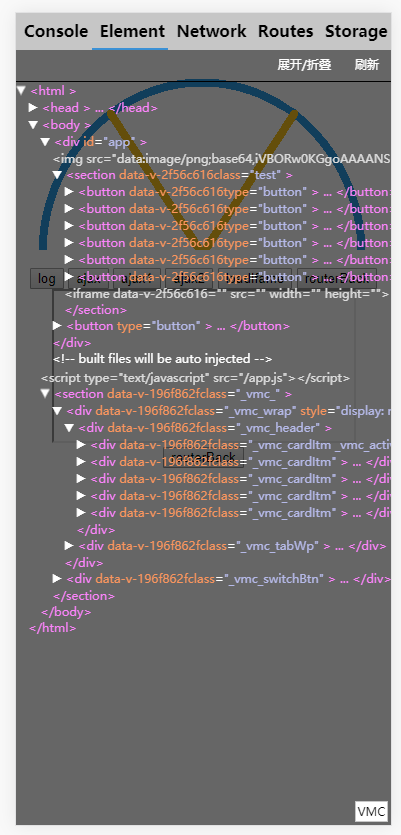
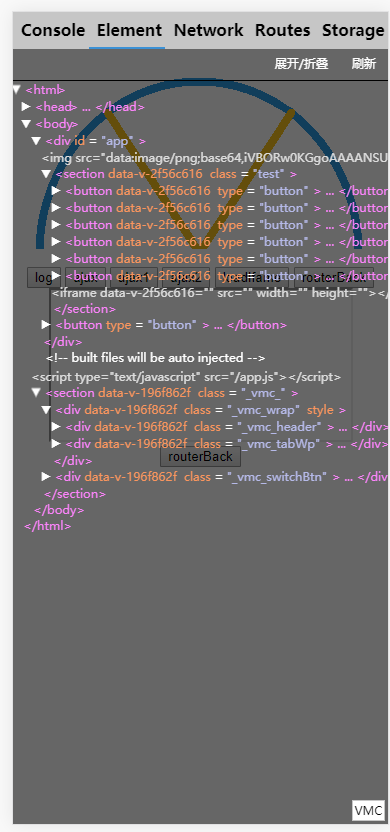
样式调整

Changed region(s): [[0.0308, 0.0, 1.0, 1.0], [0.5846, 0.6875, 0.8, 0.7188], [0.6154, 0.625, 0.6462, 0.6562]]

diff --git a/src/tabs/element/ElemTag.vue b/src/tabs/element/ElemTag.vue
@@ -3,20 +3,21 @@
 -->
 <template lang="html"> 
 <!-- 元素节点 -->
-<div v-if="node.nodeType===1" class="_vmc_elem"> 
+<div v-if="node.nodeType===1" class="_vmc_elem ft0"> 
   <template v-if="node.childNodes && node.childNodes.length>0">
     <span class="_vmc_tagTitle"><span class="">▶</span>
     <span class="_vmc_tagName color0">&lt;{{node.tagName | toLower}}</span> 
       <template v-if="node.attributes"> 
-        <span class="_vmc_tagAttr ft0" v-for="(itm,key) in node.attributes">
+        <span class="_vmc_tagAttr " v-for="(itm,key) in node.attributes">
           <span class="color1">{{itm.nodeName}}</span> 
           <template v-if="itm.nodeValue">
             <span>=</span> 
             <span class="color2">{{'"'+itm.nodeValue+'"'}} </span>
           </template>
+          <span>&nbsp;</span>
         </span>
       </template> 
-      <span class="_vmc_tagName color0">&gt;</span> 
+      <span class="_vmc_tagNameSE color0">&gt;</span> 
       <span class="_vmc_tagName color0">... &lt;/{{node.tagName | toLower}}&gt;</span> 
     </span>
     <div class="_vmc_tagContent" style="display:none;" >
@@ -52,7 +53,7 @@ export default {
     },
   },
   updated(){
-    this.$emit('updated','');
+    // this.$emit('updated','');
   },
   filters: {
     toLower(val){
@@ -75,9 +76,11 @@ export default {
   .color9 { color: #e0e0e0; }
   
   ._vmc_elem {
-    margin-left: 1em;
+    margin-left: 10px;
   }
-  ._vmc_tagName { }
+  ._vmc_tagNameSE { 
+    margin-left: -0.5em;
+  }
   ._vmc_tagEnd { 
     margin-left: 1em;
   }

diff --git a/src/tabs/element/index.vue b/src/tabs/element/index.vue
@@ -9,14 +9,14 @@
   </div>
   <div class="_vmc_body">
     <div class="_vmc_root">
-      <ElemTag :node="rootEl" @updated="updatedCb"></ElemTag>
+      <VMCElemTag :node="rootEl" @updated="updatedCb"></VMCElemTag>
     </div>
   </div>
 </section> 
 </template> 
 
 <script> 
-import ElemTag from "./ElemTag.vue";
+import VMCElemTag from "./ElemTag.vue";
 export default {
   data(){ 
     return {
@@ -93,11 +93,11 @@ export default {
     
     updatedCb(){
       // console.log('components updated');
-      this.adjustStyle();
+      // this.adjustStyle();
     },
   },
   components: {
-    ElemTag,
+    VMCElemTag,
   },
 };
 </script> 
